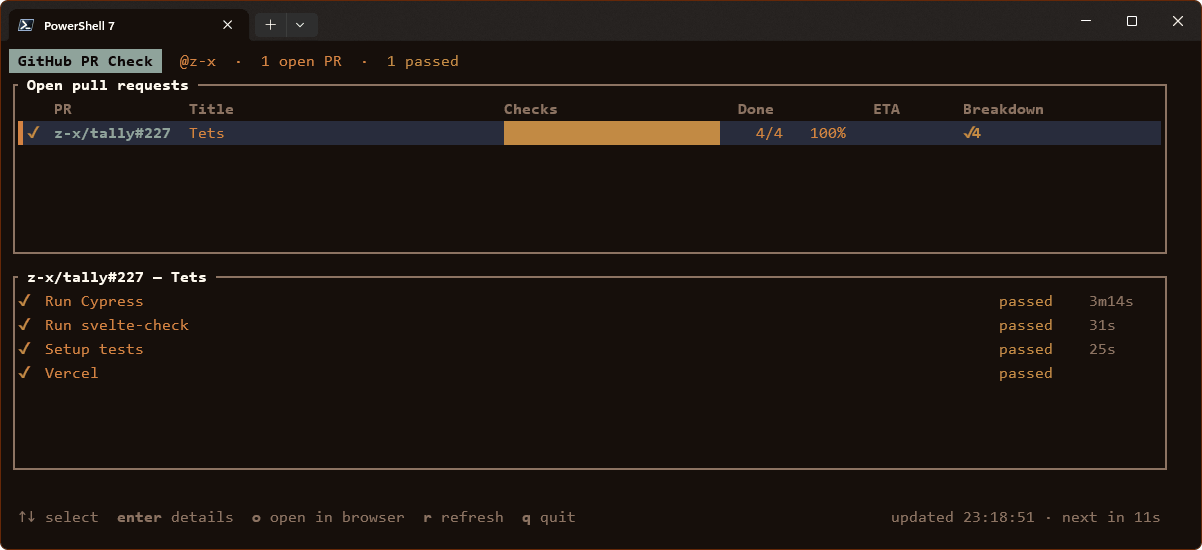
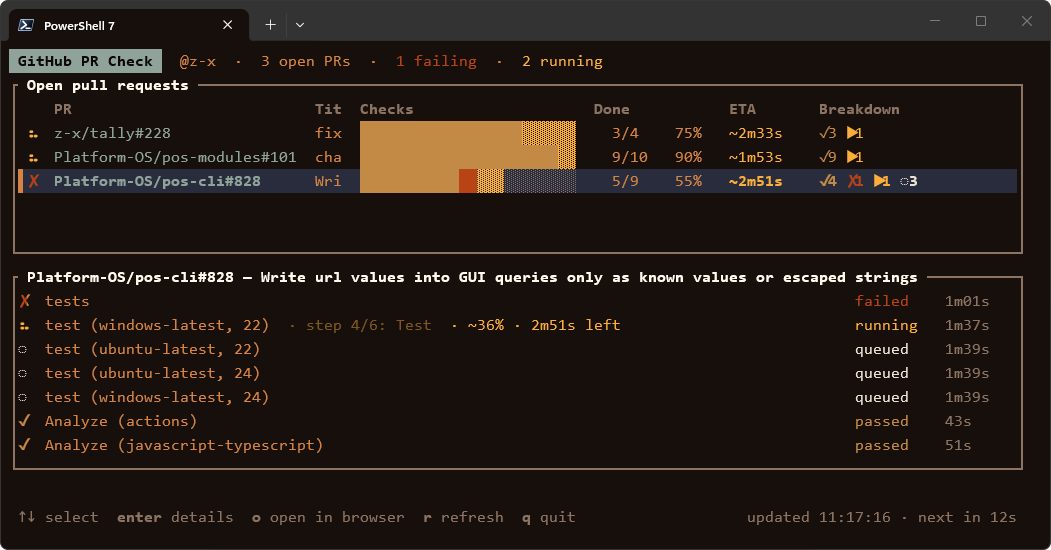
README: update screenshot

diff --git a/README.md b/README.md
@@ -2,7 +2,7 @@
 
 A terminal dashboard showing the CI status of **your open GitHub pull requests**, refreshed automatically.
 
-![GitHub PR Check showing an open pull request with all CI checks passed](preview.png)
+![GitHub PR Check listing three open pull requests with live CI progress, one failing and showing its per-check breakdown](preview.png)
 
 
 For every open PR you authored, in any repo or organization your token can see, it shows:
